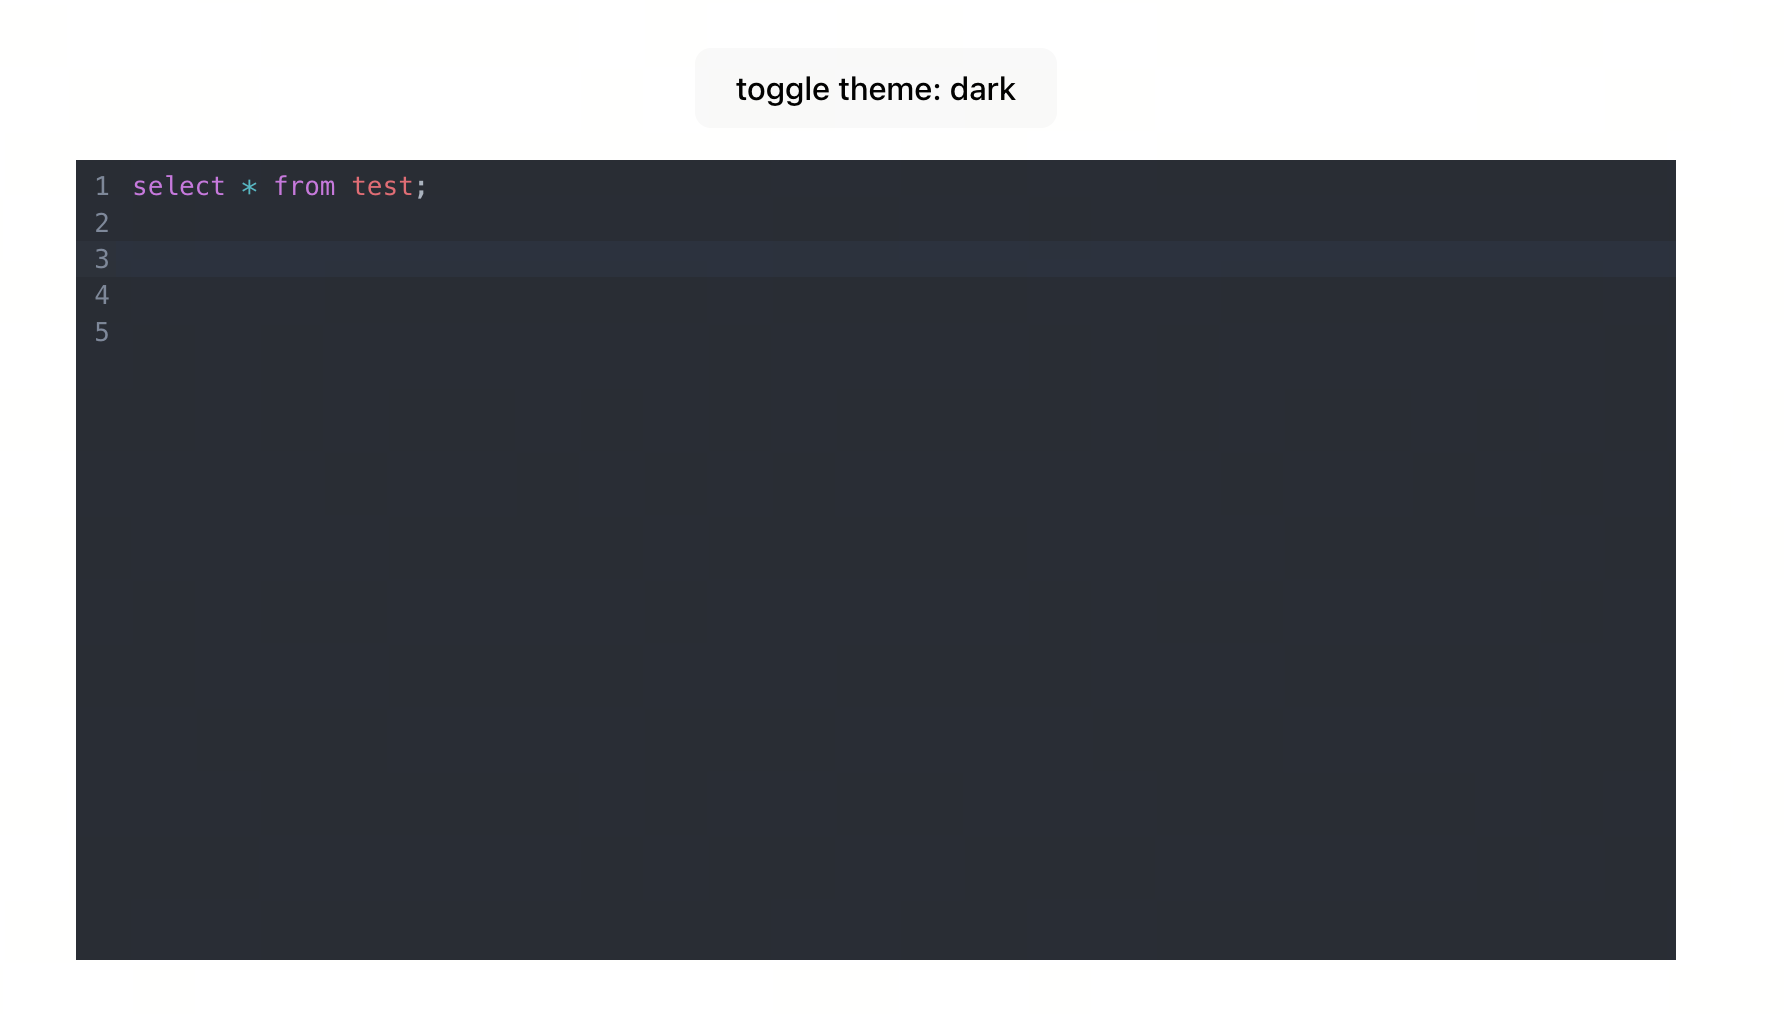
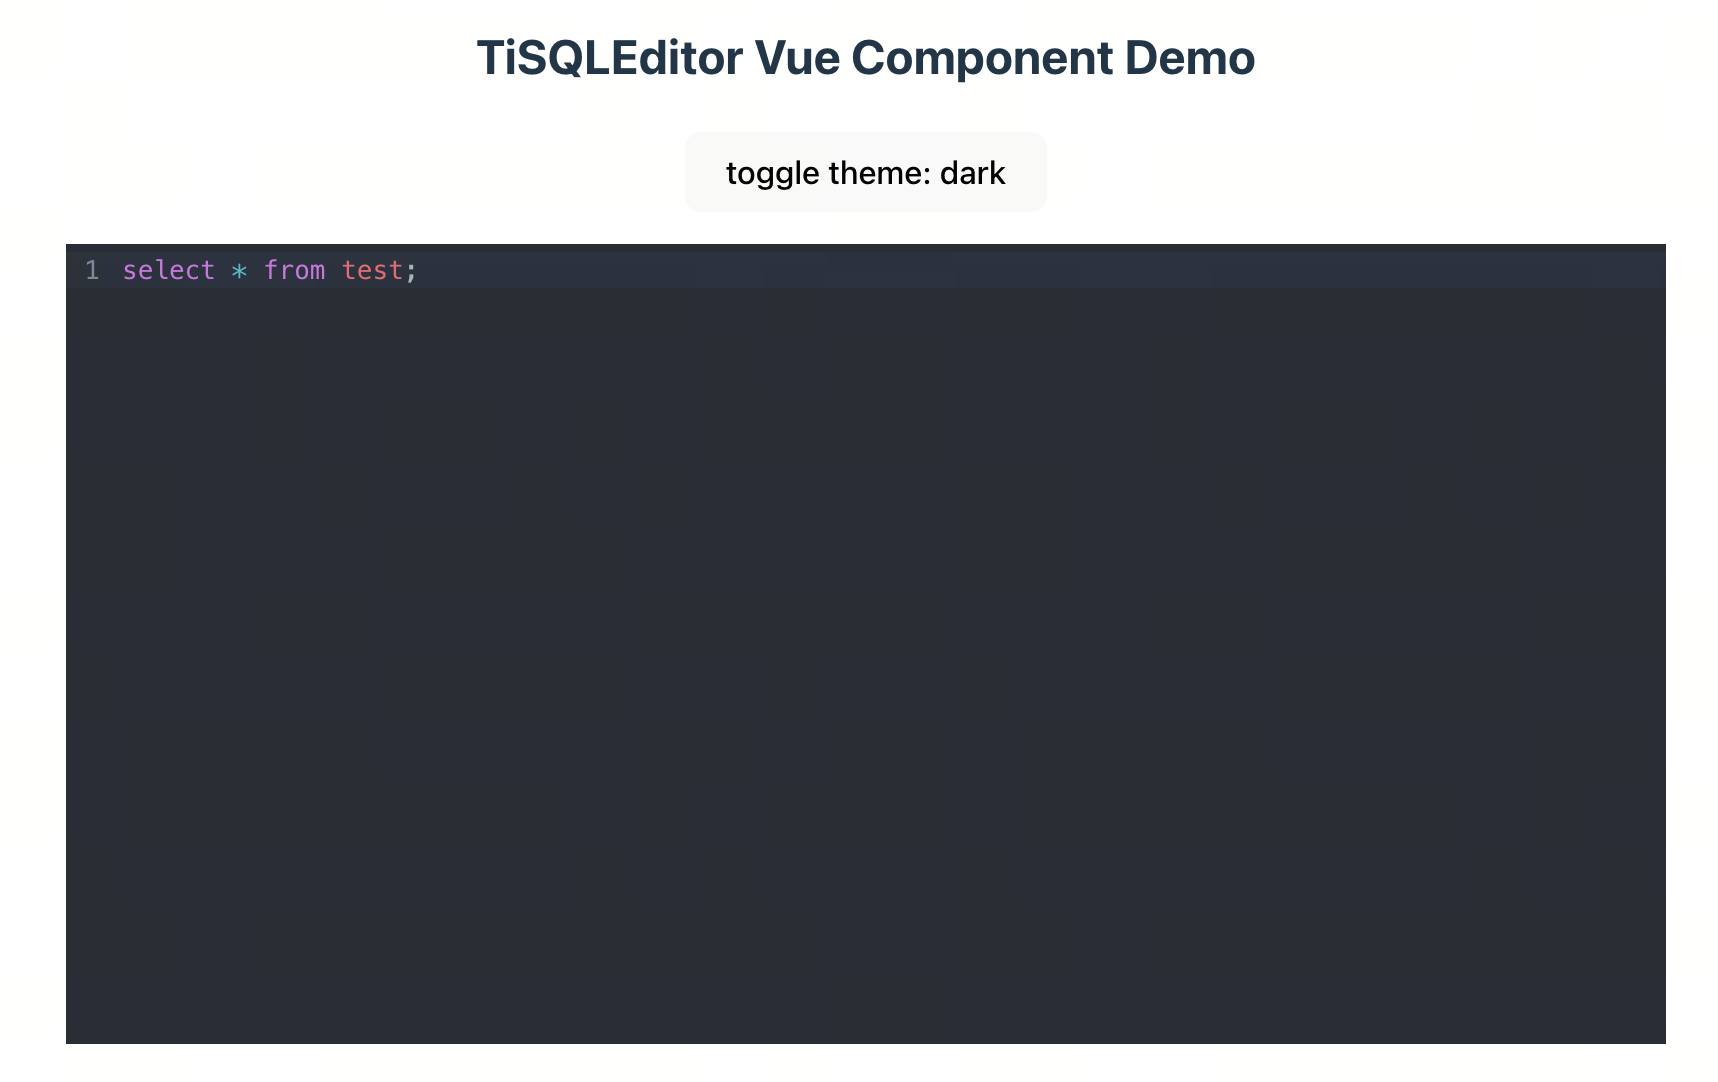
refine

Changed region(s): [[0.0308, 0.1529, 0.9872, 0.9783], [0.2776, 0.0306, 0.7404, 0.1223]]

diff --git a/src/App.vue b/src/App.vue
@@ -11,6 +11,7 @@ function toggle() {
 
 <template>
   <EditorCacheProvide>
+    <h2>TiSQLEditor Vue Component Demo</h2>
     <button @click="toggle">
       toggle theme: {{ isDark ? "dark" : "light" }}
     </button>

diff --git a/README.md b/README.md
@@ -1,6 +1,6 @@
 # TiSQLEditor Vue Component Demo
 
-This demo is created by Vue3+Typescript+Vite, for `@tidbcloud/tisqleditor-vue` package.
+This demo is used to test `@tidbcloud/tisqleditor-vue` package, created by Vue3+Typescript+Vite.
 
 ## Preview
 
